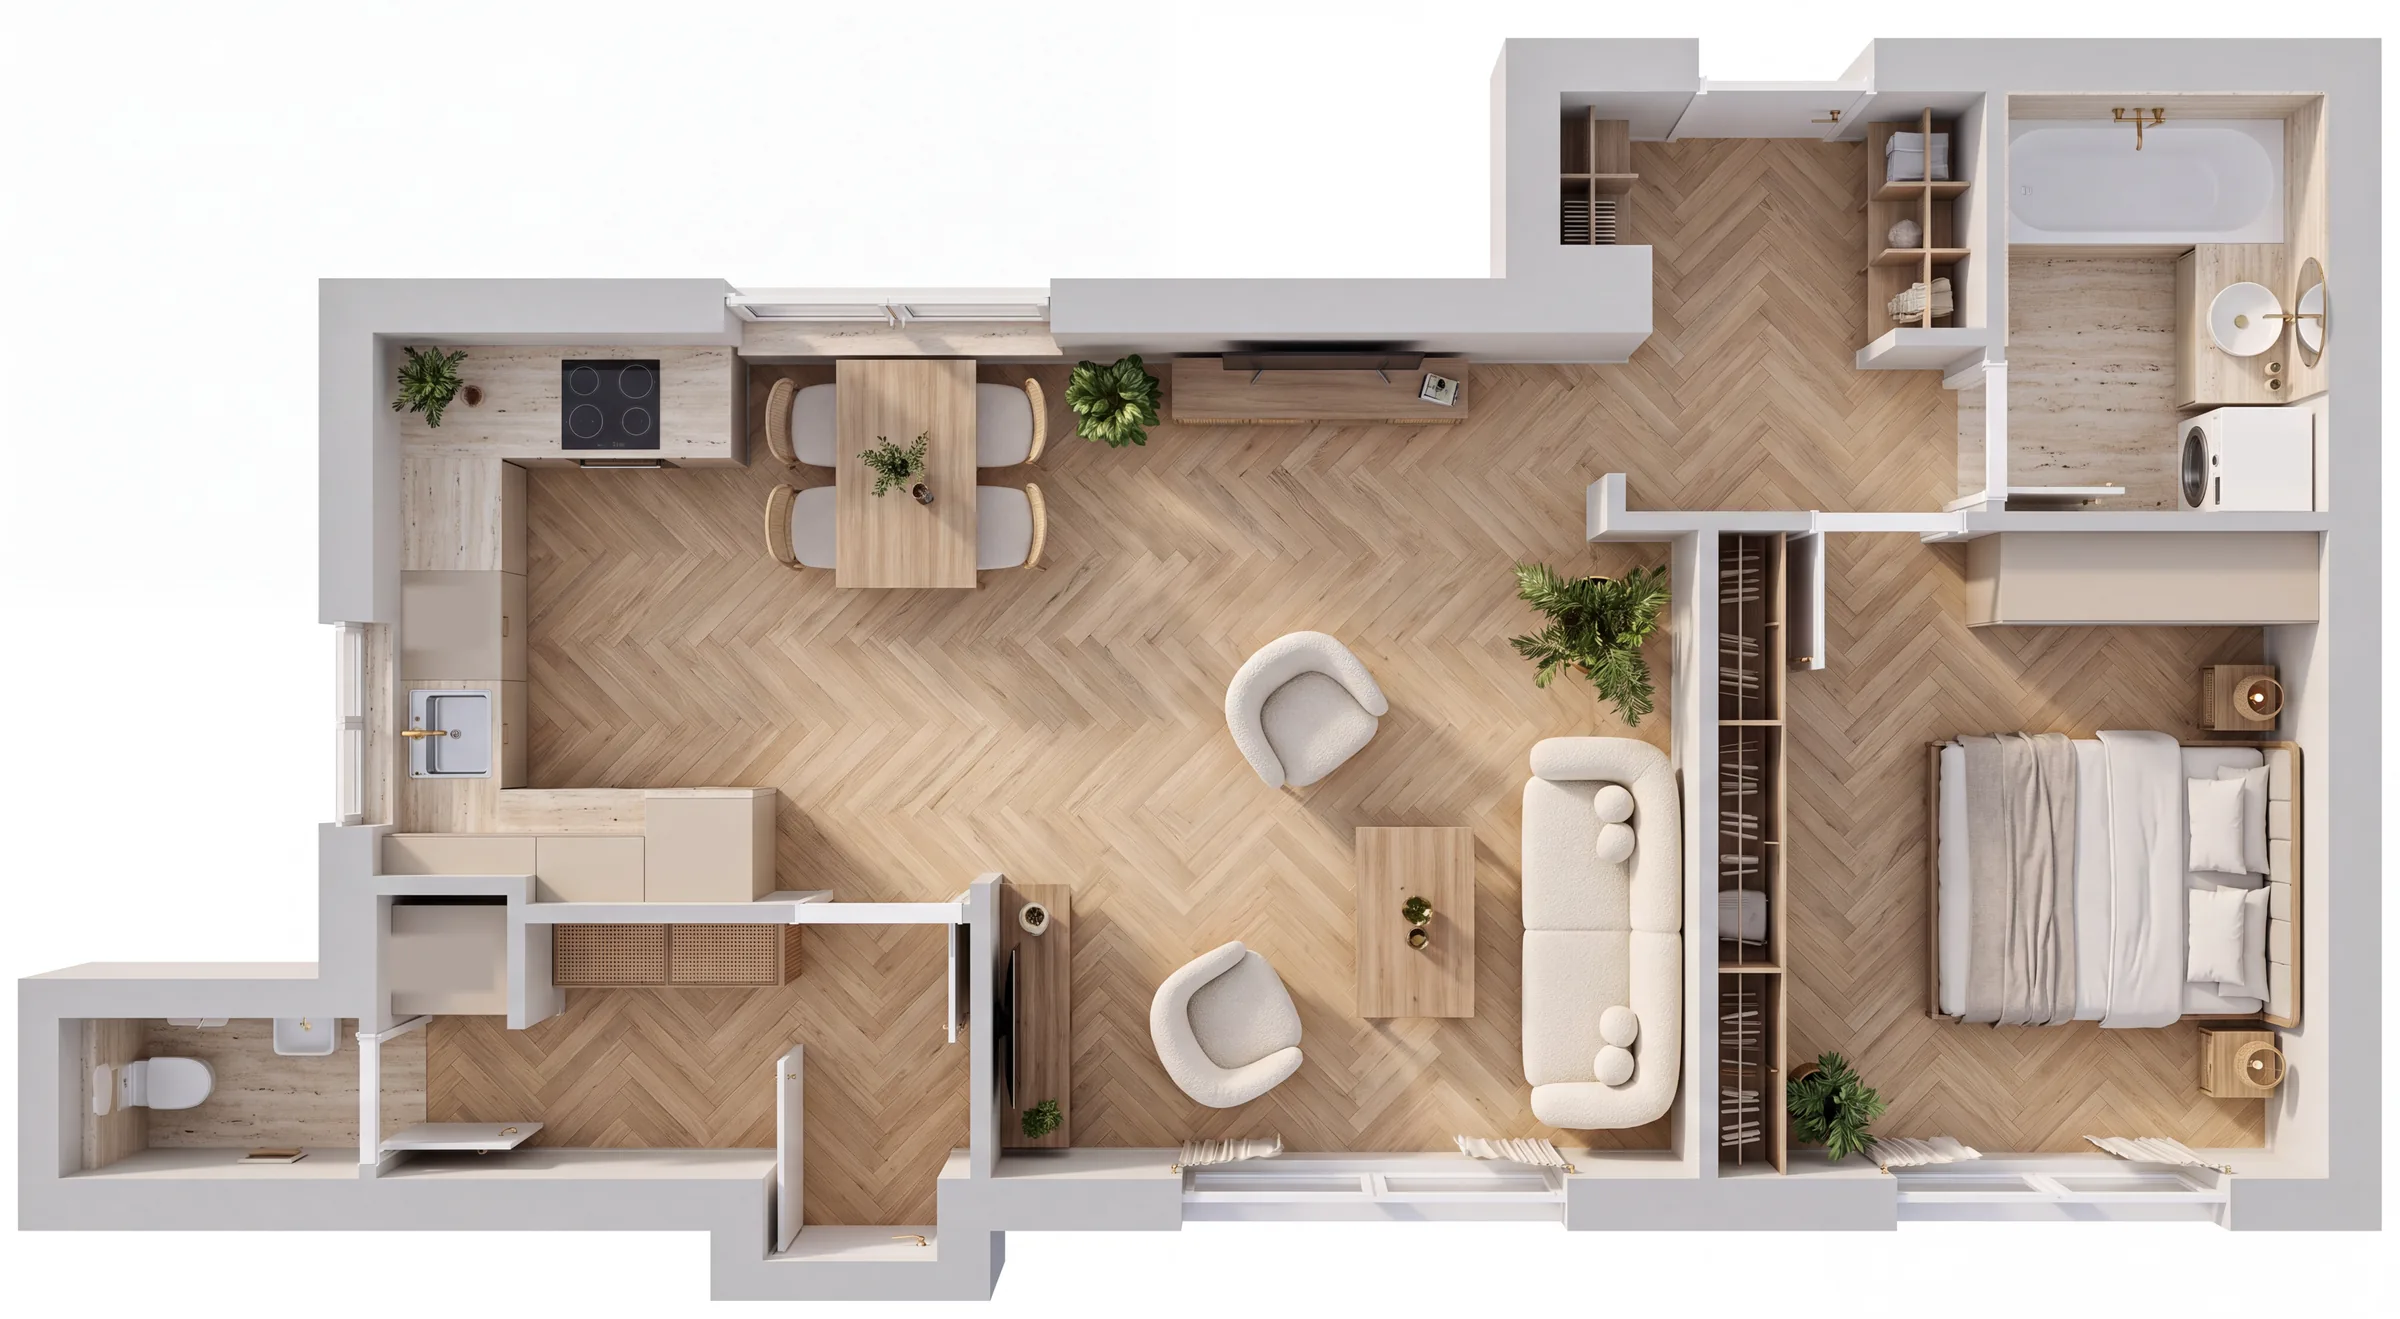
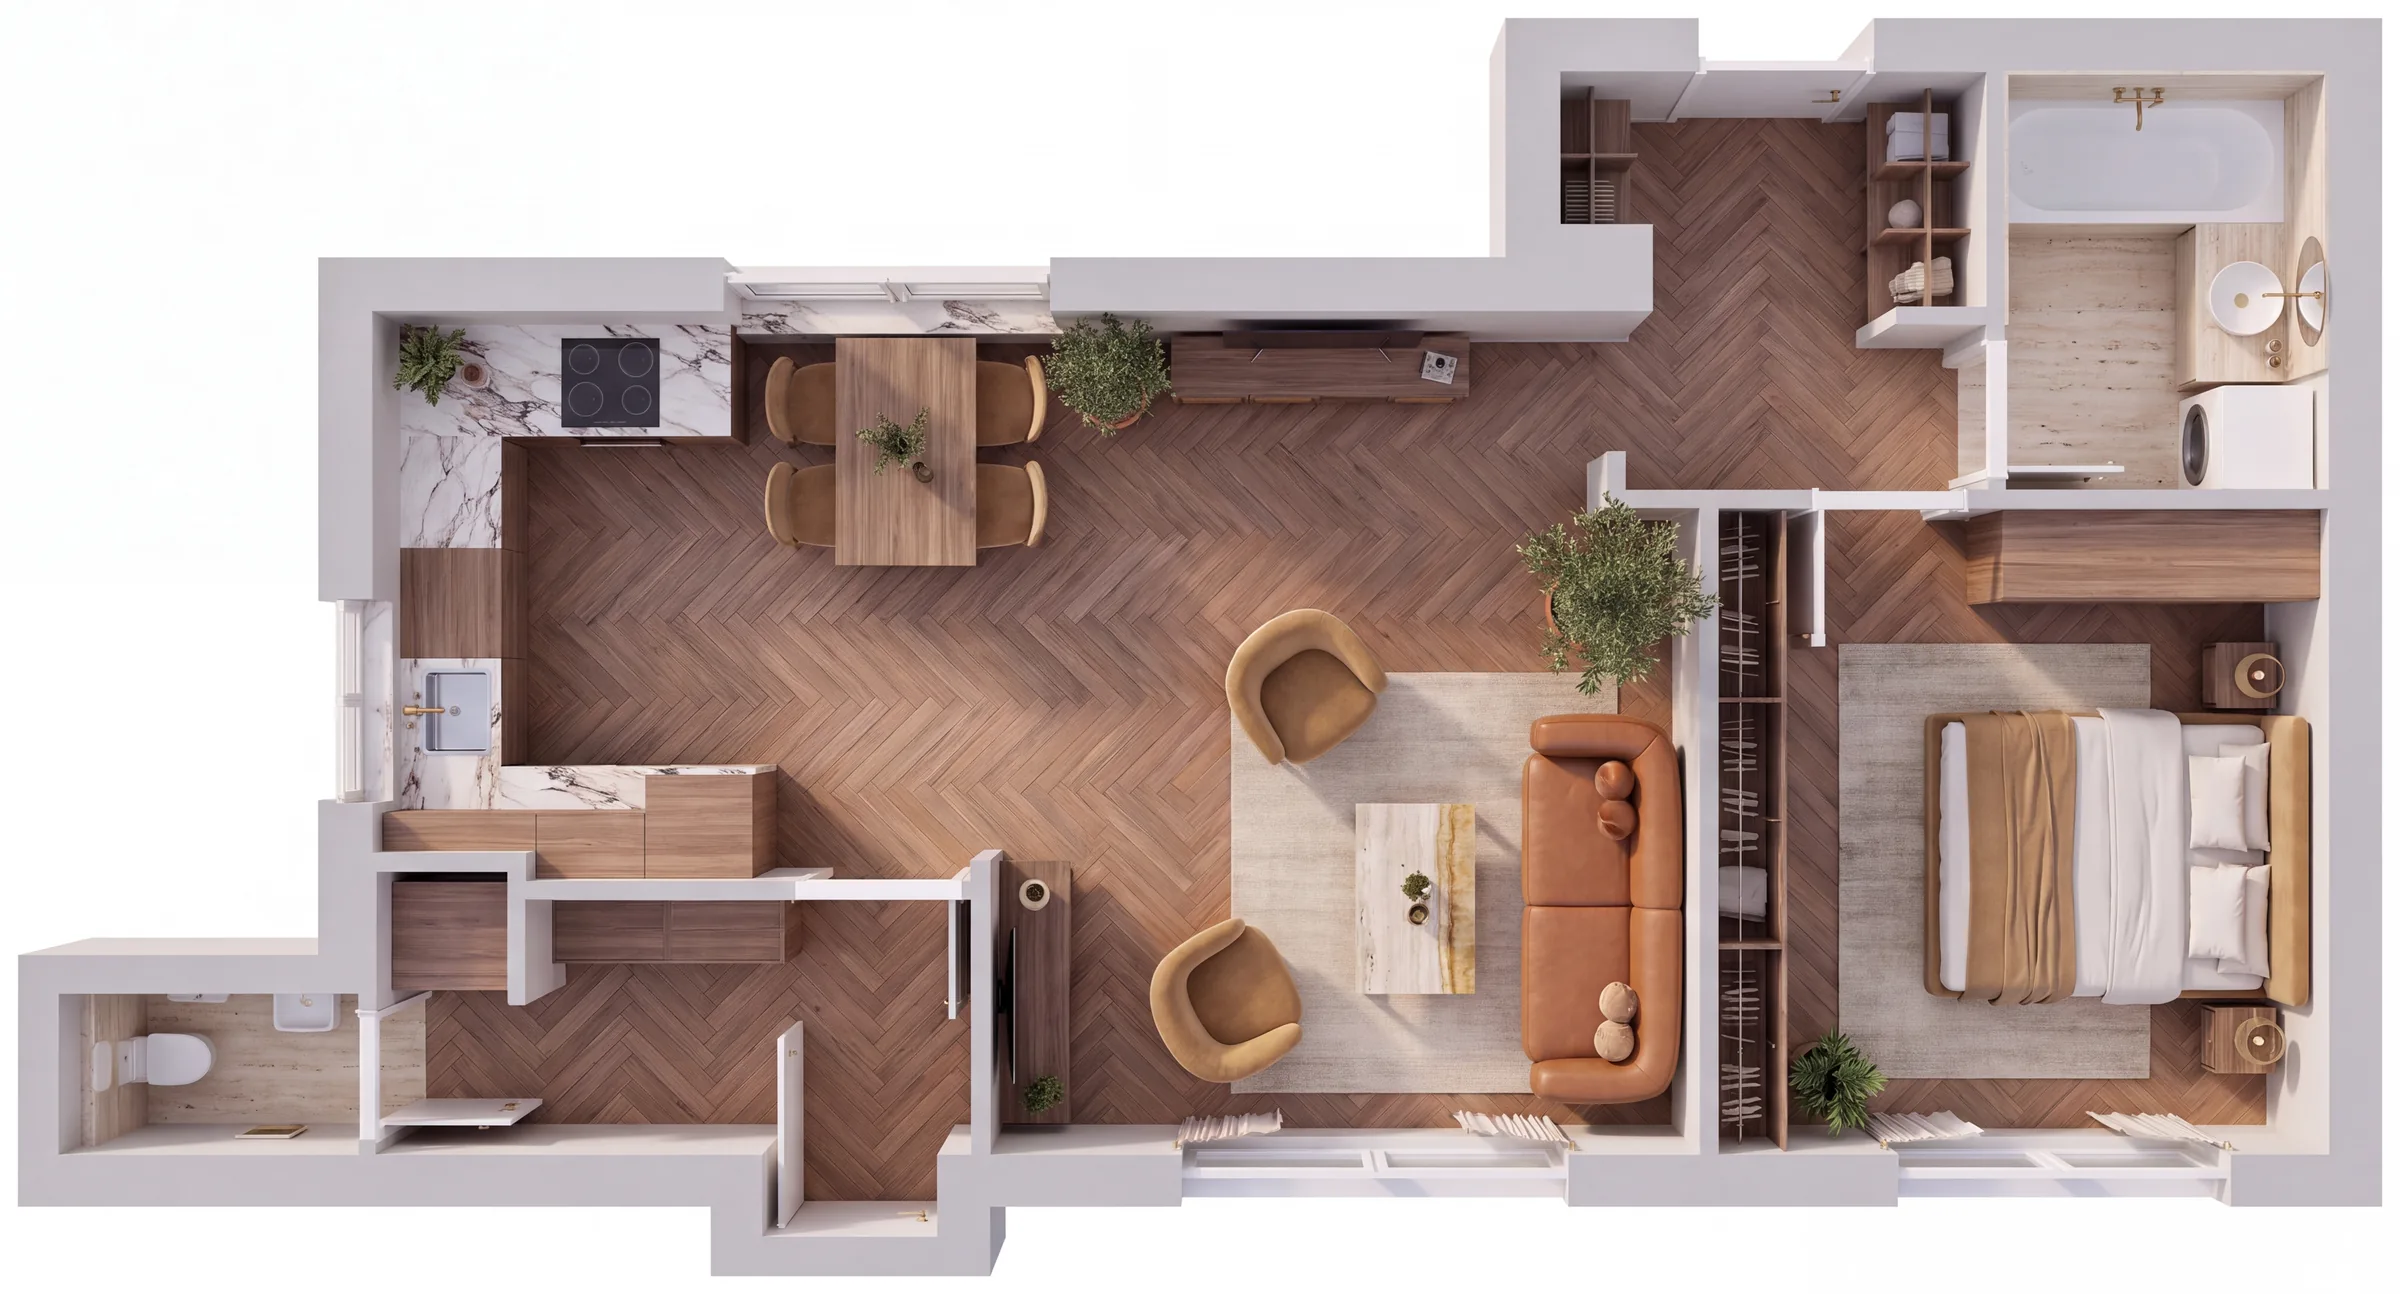
L4: luxusabb felülnézet, nappali és hálószoba
Claude-Session: https://claude.ai/code/session_018xvr5icGNy1B7YPTSB9UEA

diff --git a/index.html b/index.html
@@ -661,9 +661,9 @@ footer li{list-style:none;margin-bottom:8px}
         </div>
         <p class="fp-note fp-note-plan"><b>Alaprajz a tervek alapján.</b> Az alaprajz és a berendezett felülnézet a jóváhagyott tervrajz szerinti elrendezést mutatja; a helyiségenkénti területek számított, tájékoztató értékek, a lakás hivatalos hasznos alapterülete 52,97 m².</p>
         <div class="fp-gal">
-          <figure class="lbx" data-cap="Nappali, étkező és konyha"><img src="images/lakasok/l4-nappali.webp" alt="Nappali, étkező és konyha egy légtérben – tetőtéri gerendák, üvegtégla sáv, bouclé kanapé" loading="lazy"><figcaption>Nappali, étkező és konyha</figcaption></figure>
+          <figure class="lbx" data-cap="Nappali, étkező és konyha"><img src="images/lakasok/l4-nappali.webp" alt="Nappali, étkező és konyha egy légtérben – bársony kanapé, bőr fotelek, ónix asztal, márvány konyha, tetőtéri gerendák" loading="lazy"><figcaption>Nappali, étkező és konyha</figcaption></figure>
           <figure class="lbx" data-cap="Konyha"><img src="images/lakasok/l4-konyha.webp" alt="U alakú konyha travertin pulttal és terrakotta csempével" loading="lazy"><figcaption>Konyha</figcaption></figure>
-          <figure class="lbx" data-cap="Hálószoba"><img src="images/lakasok/l4-haloszoba.webp" alt="Hálószoba – beépített szekrényfal TV-vel, terrakotta ágytámla" loading="lazy"><figcaption>Hálószoba</figcaption></figure>
+          <figure class="lbx" data-cap="Hálószoba"><img src="images/lakasok/l4-haloszoba.webp" alt="Hálószoba – diófa szekrényfal beépített TV-vel, bársony ágytámla, selyem ágynemű" loading="lazy"><figcaption>Hálószoba</figcaption></figure>
           <figure class="lbx" data-cap="Fürdőszoba"><img src="images/lakasok/l4-furdoszoba.webp" alt="Fürdőszoba – travertin kád, beépített mosógép, kőmosdó" loading="lazy"><figcaption>Fürdőszoba</figcaption></figure>
         </div>
         <p class="fp-note"><b>Tájékoztató jellegű látványképek.</b> A belső képek illusztrációk: a berendezés, a bútorok, a világítás és az anyaghasználat a hangulatot mutatják, nem képezik az eladás tárgyát.</p>
